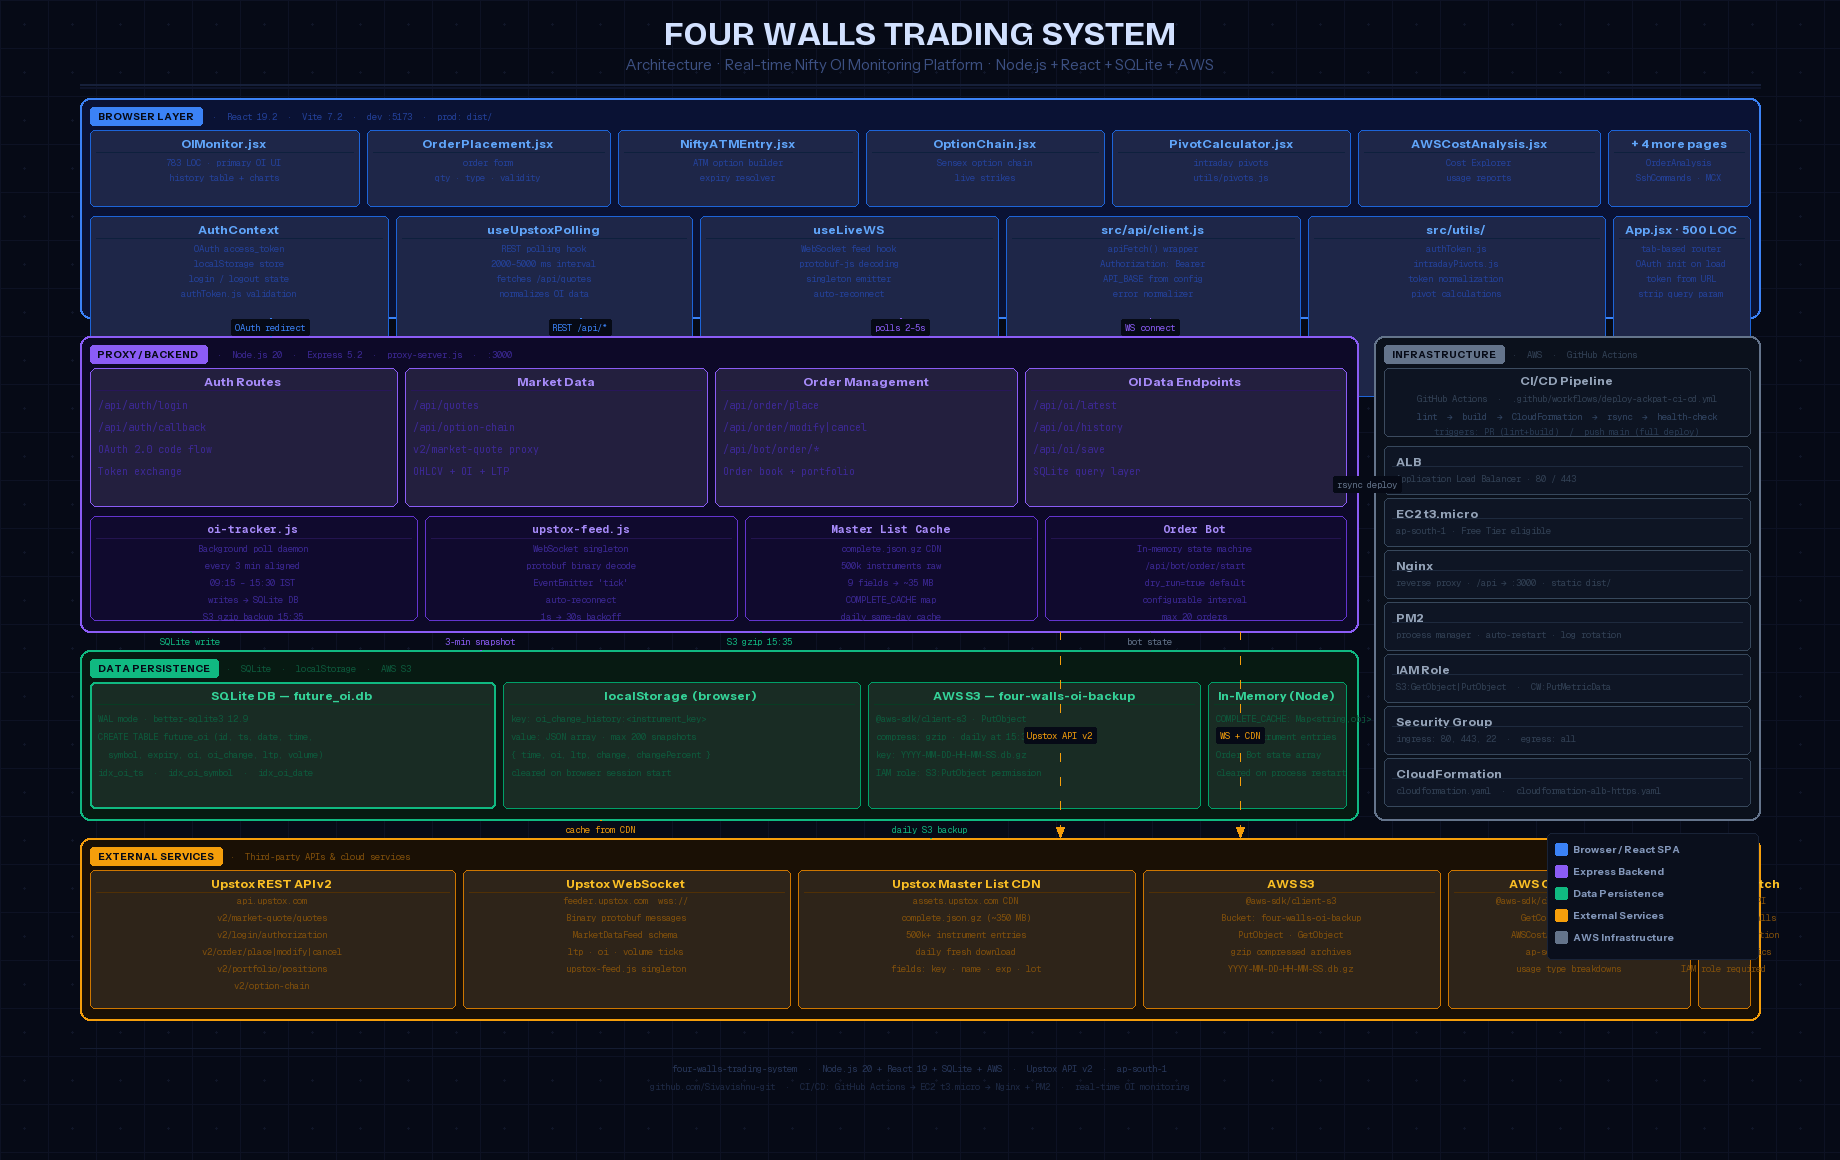
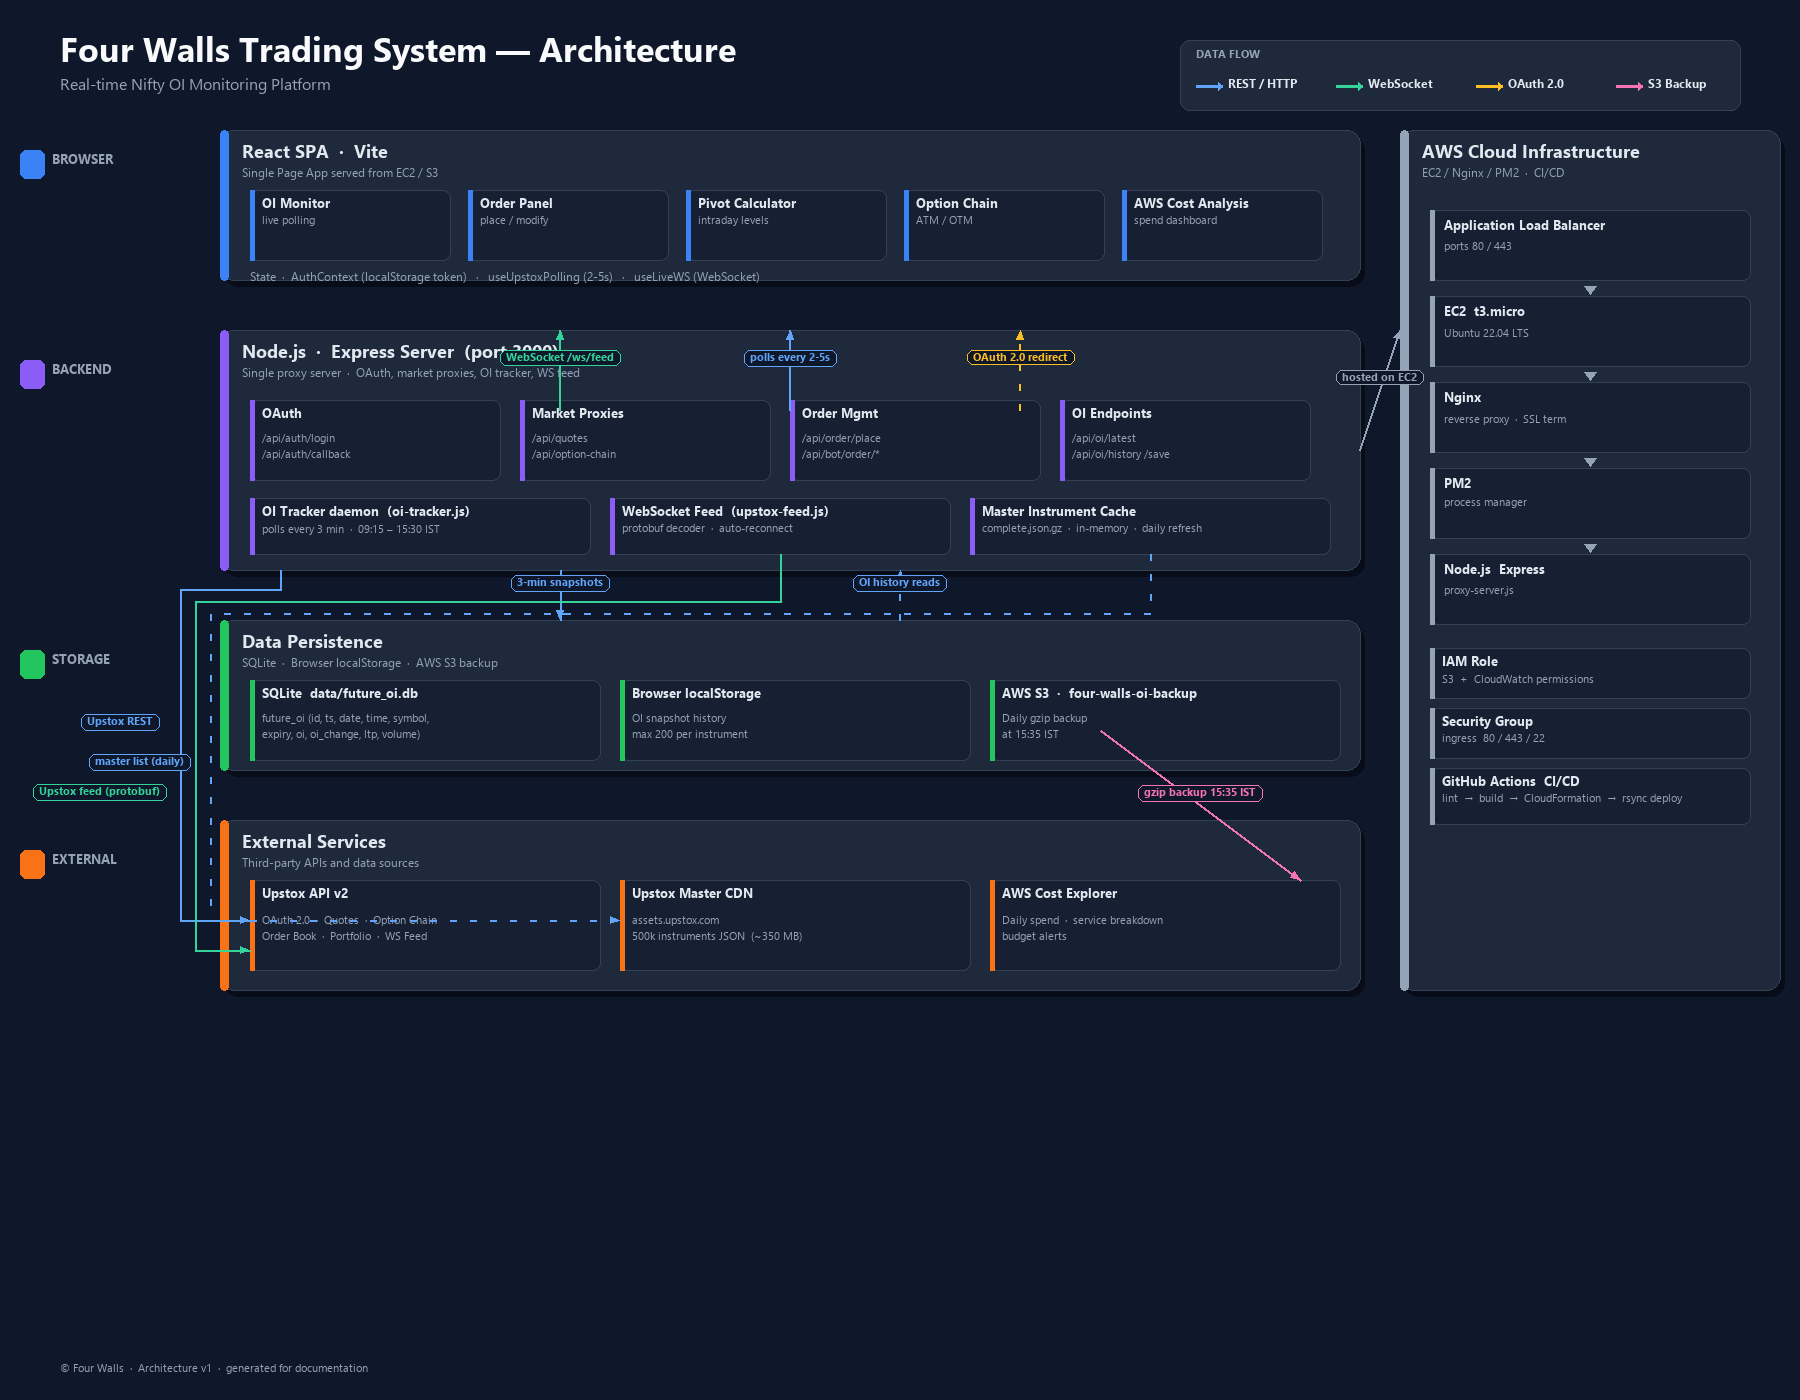
docs(arch): refine diagram and add HTTPS nginx config
- Regenerate architecture diagram with cleaner arrow routing: Backend→External
  flows now elbow along the left rail instead of crossing the Storage layer cards.
- Add generate_diagram.py so the PNG can be reproduced/edited by re-running
  the script (PIL-based, no external assets).
- Update deploy/nginx.conf to terminate HTTPS: HTTP→HTTPS redirect with
  Let's Encrypt ACME challenge passthrough, TLS 1.2/1.3, HSTS.

diff --git a/generate_diagram.py b/generate_diagram.py
@@ -1,0 +1,328 @@
+"""Four Walls Trading System — Architecture Diagram generator."""
+from PIL import Image, ImageDraw, ImageFont
+import os
+
+W, H = 1800, 1400
+BG = (15, 23, 42)             # #0f172a
+PANEL = (30, 41, 59)          # #1e293b
+GRID = (51, 65, 85)
+TXT = (226, 232, 240)
+MUTED = (148, 163, 184)
+TITLE_C = (248, 250, 252)
+
+# Layer accent colors
+C_BROWSER = (59, 130, 246)    # blue
+C_BACKEND = (139, 92, 246)    # purple
+C_STORAGE = (34, 197, 94)     # green
+C_EXTERN  = (249, 115, 22)    # orange
+C_INFRA   = (148, 163, 184)   # gray
+
+ARROW_REST = (96, 165, 250)
+ARROW_WS   = (52, 211, 153)
+ARROW_OAUTH= (251, 191, 36)
+ARROW_S3   = (244, 114, 182)
+
+img = Image.new("RGB", (W, H), BG)
+d = ImageDraw.Draw(img)
+
+
+def font(sz, bold=False):
+    candidates_bold = [
+        "C:/Windows/Fonts/segoeuib.ttf",
+        "C:/Windows/Fonts/arialbd.ttf",
+    ]
+    candidates_reg = [
+        "C:/Windows/Fonts/segoeui.ttf",
+        "C:/Windows/Fonts/arial.ttf",
+    ]
+    for p in (candidates_bold if bold else candidates_reg):
+        if os.path.exists(p):
+            try:
+                return ImageFont.truetype(p, sz)
+            except Exception:
+                pass
+    return ImageFont.load_default()
+
+
+def text(xy, s, f, fill=TXT, anchor="lt"):
+    if "\n" in s and anchor in ("lt", None):
+        d.multiline_text(xy, s, font=f, fill=fill, spacing=4)
+    else:
+        d.text(xy, s, font=f, fill=fill, anchor=anchor)
+
+
+def panel(x, y, w, h, accent, title, sub=None, radius=14):
+    # shadow
+    d.rounded_rectangle((x + 4, y + 6, x + w + 4, y + h + 6), radius=radius, fill=(8, 12, 24))
+    # body
+    d.rounded_rectangle((x, y, x + w, y + h), radius=radius, fill=PANEL, outline=GRID, width=1)
+    # accent bar
+    d.rounded_rectangle((x, y, x + 8, y + h), radius=radius, fill=accent)
+    # title
+    text((x + 22, y + 14), title, font(18, True), TXT)
+    if sub:
+        text((x + 22, y + 38), sub, font(12), MUTED)
+
+
+def chip(x, y, w, h, label, sub=None, accent=None):
+    d.rounded_rectangle((x, y, x + w, y + h), radius=8, fill=(22, 32, 50), outline=GRID, width=1)
+    if accent:
+        d.rectangle((x, y, x + 4, y + h), fill=accent)
+    text((x + 12, y + 8), label, font(13, True), TXT)
+    if sub:
+        text((x + 12, y + 26), sub, font(11), MUTED)
+
+
+def _draw_segments(points, color, dashed, width):
+    import math
+    for i in range(len(points) - 1):
+        x1, y1 = points[i]
+        x2, y2 = points[i + 1]
+        if dashed:
+            dx, dy = x2 - x1, y2 - y1
+            dist = math.hypot(dx, dy)
+            steps = max(1, int(dist / 10))
+            for k in range(steps):
+                if k % 2 == 0:
+                    t1, t2 = k / steps, (k + 0.6) / steps
+                    d.line(
+                        (x1 + dx * t1, y1 + dy * t1, x1 + dx * t2, y1 + dy * t2),
+                        fill=color, width=width,
+                    )
+        else:
+            d.line((x1, y1, x2, y2), fill=color, width=width)
+
+
+def elbow(points, color, label=None, label_pos=None, dashed=False, width=2):
+    import math
+    _draw_segments(points, color, dashed, width)
+    x1, y1 = points[-2]
+    x2, y2 = points[-1]
+    ang = math.atan2(y2 - y1, x2 - x1)
+    ah = 10
+    p1 = (x2, y2)
+    p2 = (x2 - ah * math.cos(ang - 0.4), y2 - ah * math.sin(ang - 0.4))
+    p3 = (x2 - ah * math.cos(ang + 0.4), y2 - ah * math.sin(ang + 0.4))
+    d.polygon([p1, p2, p3], fill=color)
+    if label and label_pos:
+        mx, my = label_pos
+        bbox = d.textbbox((mx, my), label, font=font(11, True), anchor="mm")
+        d.rounded_rectangle((bbox[0] - 6, bbox[1] - 3, bbox[2] + 6, bbox[3] + 3), radius=6, fill=BG, outline=color, width=1)
+        text((mx, my), label, font(11, True), color, anchor="mm")
+
+
+def arrow(x1, y1, x2, y2, color, label=None, label_offset=(0, -14), dashed=False, width=2):
+    if dashed:
+        # draw dashed line
+        import math
+        dx, dy = x2 - x1, y2 - y1
+        dist = math.hypot(dx, dy)
+        steps = int(dist / 10)
+        for i in range(steps):
+            if i % 2 == 0:
+                t1, t2 = i / steps, (i + 0.6) / steps
+                d.line(
+                    (x1 + dx * t1, y1 + dy * t1, x1 + dx * t2, y1 + dy * t2),
+                    fill=color, width=width,
+                )
+    else:
+        d.line((x1, y1, x2, y2), fill=color, width=width)
+    # arrowhead
+    import math
+    ang = math.atan2(y2 - y1, x2 - x1)
+    ah = 10
+    p1 = (x2, y2)
+    p2 = (x2 - ah * math.cos(ang - 0.4), y2 - ah * math.sin(ang - 0.4))
+    p3 = (x2 - ah * math.cos(ang + 0.4), y2 - ah * math.sin(ang + 0.4))
+    d.polygon([p1, p2, p3], fill=color)
+    if label:
+        mx, my = (x1 + x2) / 2 + label_offset[0], (y1 + y2) / 2 + label_offset[1]
+        # background pill for legibility
+        bbox = d.textbbox((mx, my), label, font=font(11, True), anchor="mm")
+        d.rounded_rectangle((bbox[0] - 6, bbox[1] - 3, bbox[2] + 6, bbox[3] + 3), radius=6, fill=BG, outline=color, width=1)
+        text((mx, my), label, font(11, True), color, anchor="mm")
+
+
+# ---------- Title ----------
+text((60, 36), "Four Walls Trading System — Architecture", font(34, True), TITLE_C)
+text((60, 78), "Real-time Nifty OI Monitoring Platform", font(16), MUTED)
+
+# Legend (top right)
+lx, ly = 1180, 40
+d.rounded_rectangle((lx, ly, lx + 560, ly + 70), radius=10, fill=PANEL, outline=GRID)
+text((lx + 16, ly + 10), "DATA FLOW", font(11, True), MUTED)
+items = [("REST / HTTP", ARROW_REST), ("WebSocket", ARROW_WS), ("OAuth 2.0", ARROW_OAUTH), ("S3 Backup", ARROW_S3)]
+ix = lx + 16
+for lbl, col in items:
+    d.line((ix, ly + 46, ix + 26, ly + 46), fill=col, width=3)
+    d.polygon([(ix + 26, ly + 46), (ix + 22, ly + 42), (ix + 22, ly + 50)], fill=col)
+    text((ix + 32, ly + 39), lbl, font(12, True), TXT)
+    ix += 140
+
+# Layer label helper
+def layer_label(y, name, color):
+    d.rounded_rectangle((20, y, 44, y + 28), radius=6, fill=color)
+    text((52, y + 4), name, font(13, True), MUTED)
+
+# ===== LAYER 1 — Browser =====
+L1_Y = 130
+layer_label(L1_Y + 20, "BROWSER", C_BROWSER)
+panel(220, L1_Y, 1140, 150, C_BROWSER, "React SPA  ·  Vite", "Single Page App served from EC2 / S3")
+# component chips
+cx, cy = 250, L1_Y + 60
+for i, (t, s) in enumerate([
+    ("OI Monitor", "live polling"),
+    ("Order Panel", "place / modify"),
+    ("Pivot Calculator", "intraday levels"),
+    ("Option Chain", "ATM / OTM"),
+    ("AWS Cost Analysis", "spend dashboard"),
+]):
+    chip(cx + i * 218, cy, 200, 70, t, s, C_BROWSER)
+
+# state row
+text((250, L1_Y + 142), "State  ·  AuthContext (localStorage token)   ·   useUpstoxPolling (2-5s)   ·   useLiveWS (WebSocket)", font(12), MUTED)
+
+# ===== LAYER 2 — Backend =====
+L2_Y = 330
+layer_label(L2_Y + 30, "BACKEND", C_BACKEND)
+panel(220, L2_Y, 1140, 240, C_BACKEND, "Node.js  ·  Express Server  (port 3000)", "Single proxy server  ·  OAuth, market proxies, OI tracker, WS feed")
+
+# route group chips
+rx, ry = 250, L2_Y + 70
+groups = [
+    ("OAuth", "/api/auth/login\n/api/auth/callback"),
+    ("Market Proxies", "/api/quotes\n/api/option-chain"),
+    ("Order Mgmt", "/api/order/place\n/api/bot/order/*"),
+    ("OI Endpoints", "/api/oi/latest\n/api/oi/history /save"),
+]
+for i, (t, s) in enumerate(groups):
+    x = rx + i * 270
+    d.rounded_rectangle((x, ry, x + 250, ry + 80), radius=8, fill=(22, 32, 50), outline=GRID)
+    d.rectangle((x, ry, x + 4, ry + 80), fill=C_BACKEND)
+    text((x + 12, ry + 8), t, font(13, True), TXT)
+    text((x + 12, ry + 30), s, font(11), MUTED)
+
+# daemon row
+dy2 = L2_Y + 168
+chip(250, dy2, 340, 56, "OI Tracker daemon  (oi-tracker.js)", "polls every 3 min  ·  09:15 – 15:30 IST", C_BACKEND)
+chip(610, dy2, 340, 56, "WebSocket Feed  (upstox-feed.js)", "protobuf decoder  ·  auto-reconnect", C_BACKEND)
+chip(970, dy2, 360, 56, "Master Instrument Cache", "complete.json.gz  ·  in-memory  ·  daily refresh", C_BACKEND)
+
+# ===== LAYER 3 — Storage =====
+L3_Y = 620
+layer_label(L3_Y + 30, "STORAGE", C_STORAGE)
+panel(220, L3_Y, 1140, 150, C_STORAGE, "Data Persistence", "SQLite  ·  Browser localStorage  ·  AWS S3 backup")
+sx = 250
+for i, (t, s) in enumerate([
+    ("SQLite  data/future_oi.db", "future_oi (id, ts, date, time, symbol,\nexpiry, oi, oi_change, ltp, volume)"),
+    ("Browser localStorage", "OI snapshot history\nmax 200 per instrument"),
+    ("AWS S3  ·  four-walls-oi-backup", "Daily gzip backup\nat 15:35 IST"),
+]):
+    x = sx + i * 370
+    d.rounded_rectangle((x, L3_Y + 60, x + 350, L3_Y + 140), radius=8, fill=(22, 32, 50), outline=GRID)
+    d.rectangle((x, L3_Y + 60, x + 4, L3_Y + 140), fill=C_STORAGE)
+    text((x + 12, L3_Y + 68), t, font(13, True), TXT)
+    text((x + 12, L3_Y + 90), s, font(11), MUTED)
+
+# ===== LAYER 4 — External =====
+L4_Y = 820
+layer_label(L4_Y + 30, "EXTERNAL", C_EXTERN)
+panel(220, L4_Y, 1140, 170, C_EXTERN, "External Services", "Third-party APIs and data sources")
+ex = 250
+externals = [
+    ("Upstox API v2", "OAuth 2.0  ·  Quotes  ·  Option Chain\nOrder Book  ·  Portfolio  ·  WS Feed"),
+    ("Upstox Master CDN", "assets.upstox.com\n500k instruments JSON  (~350 MB)"),
+    ("AWS Cost Explorer", "Daily spend  ·  service breakdown\nbudget alerts"),
+]
+for i, (t, s) in enumerate(externals):
+    x = ex + i * 370
+    d.rounded_rectangle((x, L4_Y + 60, x + 350, L4_Y + 150), radius=8, fill=(22, 32, 50), outline=GRID)
+    d.rectangle((x, L4_Y + 60, x + 4, L4_Y + 150), fill=C_EXTERN)
+    text((x + 12, L4_Y + 68), t, font(13, True), TXT)
+    text((x + 12, L4_Y + 92), s, font(11), MUTED)
+
+# ===== LAYER 5 — Infrastructure (right side, full height) =====
+INFRA_X = 1400
+INFRA_Y = 130
+INFRA_W = 380
+INFRA_H = 860
+panel(INFRA_X, INFRA_Y, INFRA_W, INFRA_H, C_INFRA, "AWS Cloud Infrastructure", "EC2 / Nginx / PM2  ·  CI/CD")
+
+# stack visualization
+stack_x = INFRA_X + 30
+stack_y = INFRA_Y + 80
+stack_w = INFRA_W - 60
+stages = [
+    ("Application Load Balancer", "ports 80 / 443"),
+    ("EC2  t3.micro", "Ubuntu 22.04 LTS"),
+    ("Nginx", "reverse proxy  ·  SSL term"),
+    ("PM2", "process manager"),
+    ("Node.js  Express", "proxy-server.js"),
+]
+for i, (t, s) in enumerate(stages):
+    y = stack_y + i * 86
+    d.rounded_rectangle((stack_x, y, stack_x + stack_w, y + 70), radius=8, fill=(22, 32, 50), outline=GRID)
+    d.rectangle((stack_x, y, stack_x + 4, y + 70), fill=C_INFRA)
+    text((stack_x + 14, y + 10), t, font(13, True), TXT)
+    text((stack_x + 14, y + 32), s, font(11), MUTED)
+    # connector arrow between stack items
+    if i < len(stages) - 1:
+        ax = stack_x + stack_w / 2
+        d.polygon([(ax - 6, y + 76), (ax + 6, y + 76), (ax, y + 84)], fill=C_INFRA)
+
+# IAM / SG / CICD chips
+sub_y = stack_y + len(stages) * 86 + 8
+chip(stack_x, sub_y, stack_w, 50, "IAM Role", "S3  +  CloudWatch permissions", C_INFRA)
+chip(stack_x, sub_y + 60, stack_w, 50, "Security Group", "ingress  80 / 443 / 22", C_INFRA)
+chip(stack_x, sub_y + 120, stack_w, 56, "GitHub Actions  CI/CD",
+     "lint  →  build  →  CloudFormation  →  rsync deploy", C_INFRA)
+
+# ===== ARROWS =====
+# Browser → Backend (REST polling)
+arrow(790, L1_Y + 280, 790, L2_Y, ARROW_REST, "polls every 2-5s")
+# Browser → Backend (WS)
+arrow(560, L1_Y + 280, 560, L2_Y, ARROW_WS, "WebSocket /ws/feed")
+# Browser → Backend (OAuth redirect)
+arrow(1020, L1_Y + 280, 1020, L2_Y, ARROW_OAUTH, "OAuth 2.0 redirect", dashed=True)
+
+# Backend → Storage (write OI)
+arrow(560, L2_Y + 240, 560, L3_Y, ARROW_REST, "3-min snapshots")
+# Backend ↔ localStorage shown as dashed (cached client-side)
+arrow(900, L3_Y, 900, L2_Y + 240, ARROW_REST, "OI history reads", dashed=True)
+
+# Storage → External (S3 backup)
+arrow(1100, L3_Y + 110, 1300, L4_Y + 60, ARROW_S3, "gzip backup 15:35 IST")
+
+# Backend → External arrows route around Storage layer along the left margin
+ROUTE_X1 = 180   # left rail (between layer label column and panel)
+ROUTE_X2 = 195   # second rail
+ROUTE_X3 = 210   # third rail
+
+# Upstox REST  (from OAuth/Quotes area, route left then down then into Upstox API v2 panel)
+elbow(
+    [(280, L2_Y + 240), (280, L3_Y - 30), (ROUTE_X1, L3_Y - 30), (ROUTE_X1, L4_Y + 100), (250, L4_Y + 100)],
+    ARROW_REST, label="Upstox REST", label_pos=(ROUTE_X1 - 60, (L3_Y + L4_Y) / 2),
+)
+
+# Upstox WS feed (from WebSocket Feed daemon)
+elbow(
+    [(780, L2_Y + 224), (780, L3_Y - 18), (ROUTE_X2, L3_Y - 18), (ROUTE_X2, L4_Y + 130), (250, L4_Y + 130)],
+    ARROW_WS, label="Upstox feed (protobuf)", label_pos=(ROUTE_X2 - 95, L4_Y - 30),
+)
+
+# Upstox CDN master list  (from Master Instrument Cache)
+elbow(
+    [(1150, L2_Y + 224), (1150, L3_Y - 6), (ROUTE_X3, L3_Y - 6), (ROUTE_X3, L4_Y + 100), (620, L4_Y + 100)],
+    ARROW_REST, label="master list (daily)", label_pos=(ROUTE_X3 - 70, L4_Y - 60), dashed=True,
+)
+
+# Backend ↔ Infrastructure (hosted on)
+arrow(1360, L2_Y + 120, INFRA_X, INFRA_Y + 200, C_INFRA, "hosted on EC2")
+
+# Footer
+text((60, H - 36), "© Four Walls  ·  Architecture v1  ·  generated for documentation",
+     font(11), MUTED)
+
+out = r"D:\Ragu_ackpat\Projects\four-walls-trading-system\.claude\worktrees\clever-engelbart-72717f\architecture-diagram.png"
+img.save(out, "PNG")
+print("wrote", out)
